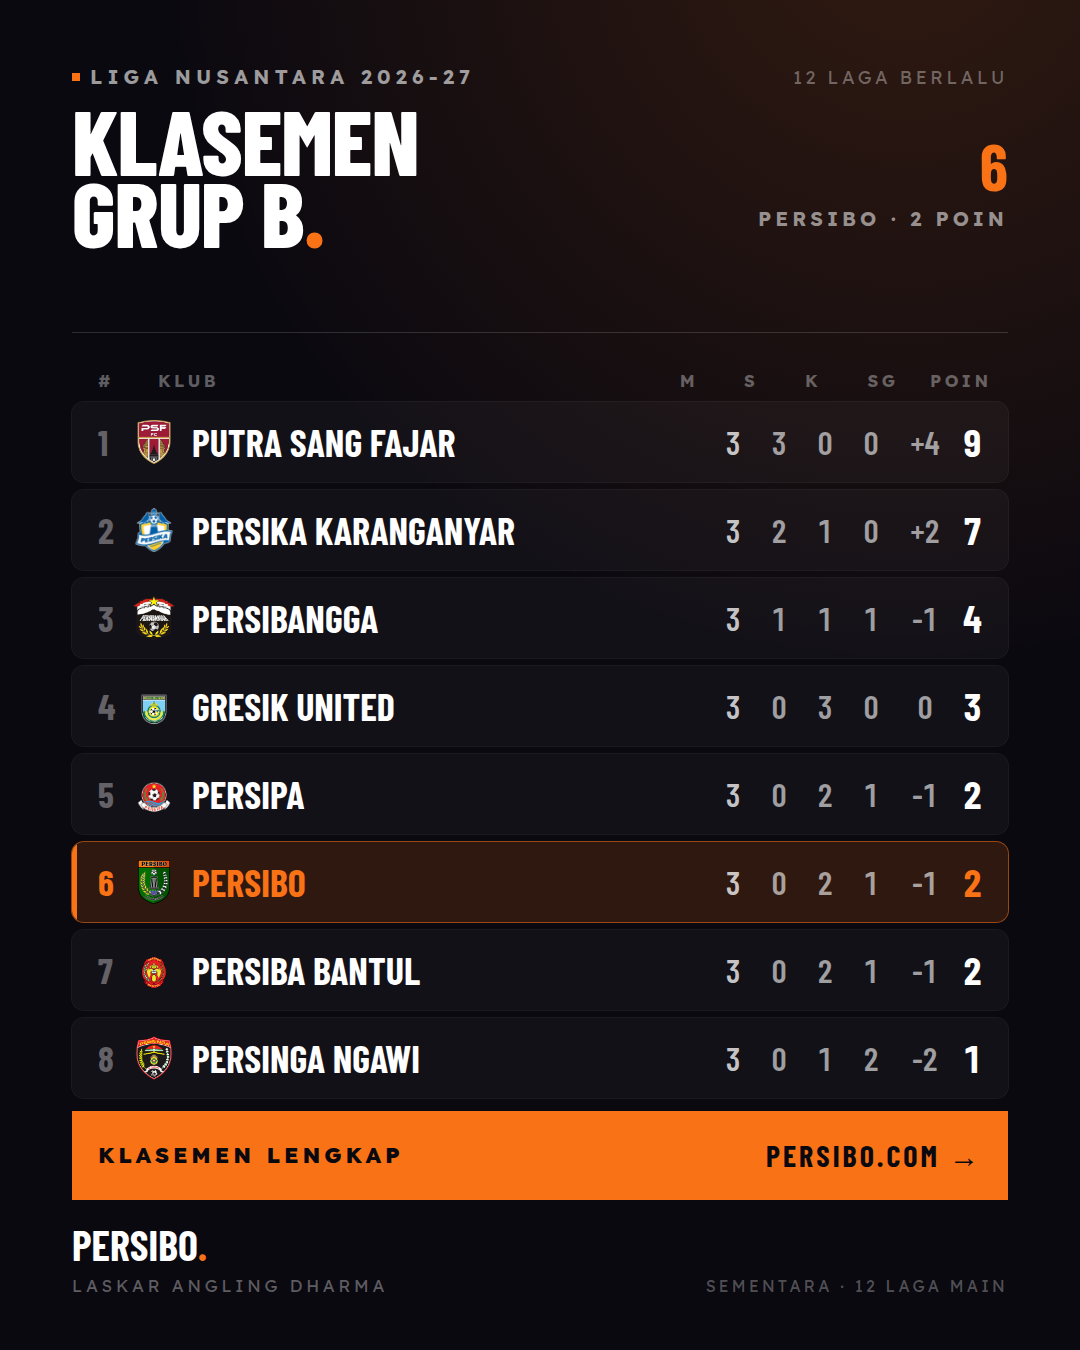
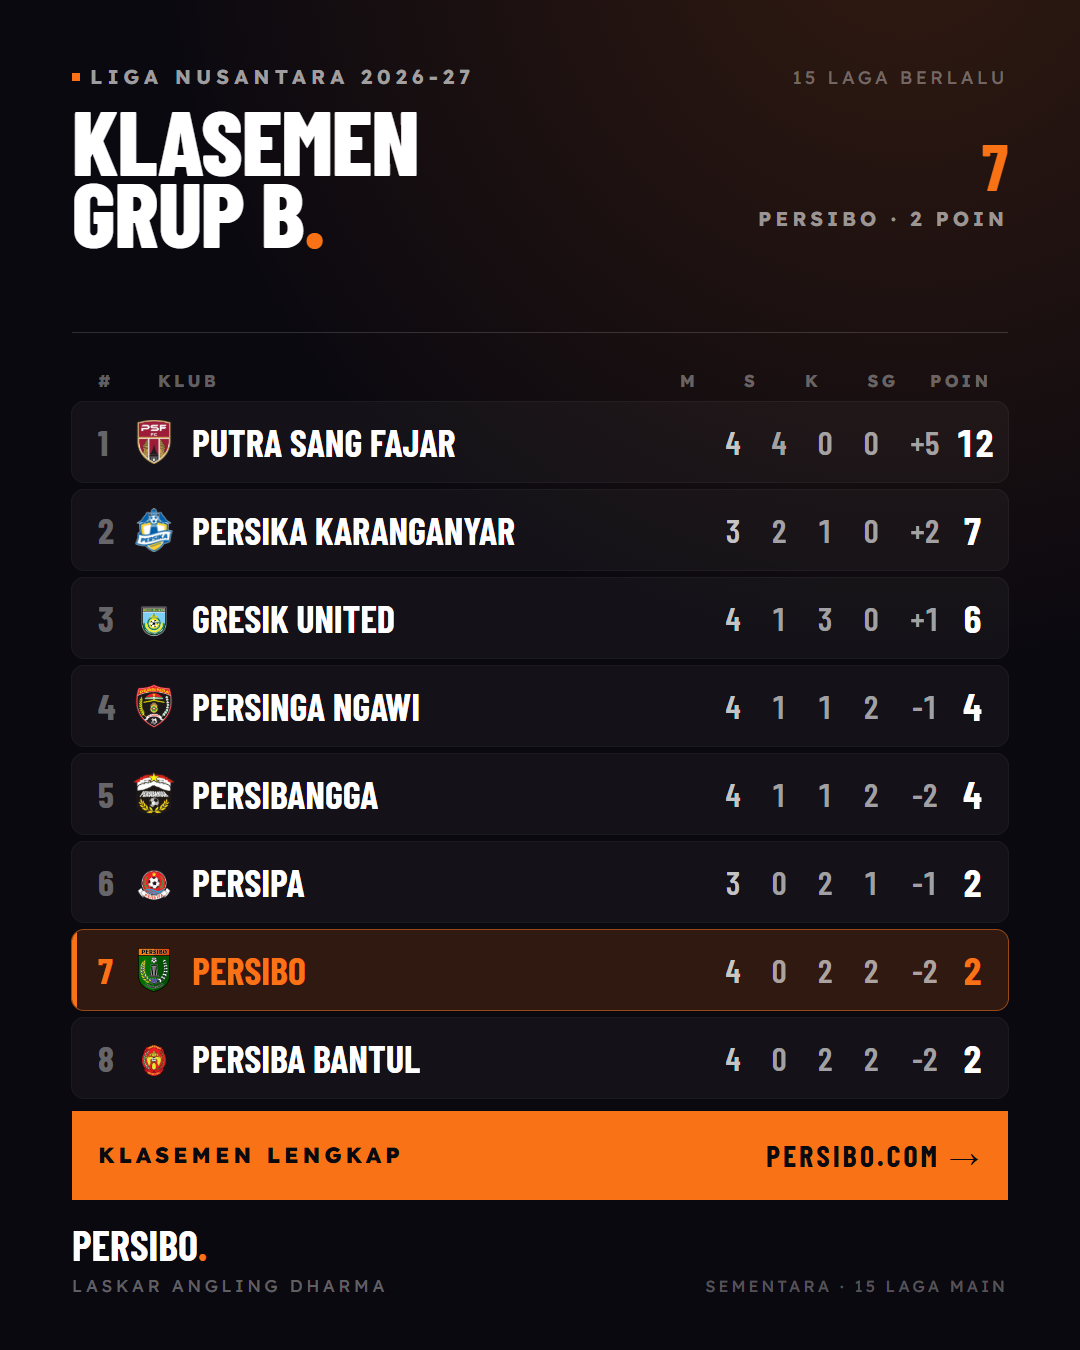
data: klasemen matchday 4 dan poster Grup B
- Standings 2026-27 di-scrape ulang dari /table/index: Grup B PSF 12, Persika 7, Gresik 6, Persinga 4, Persibangga 4, Persipa 2, Persibo 2 (7), Persiba 2; Grup A dan C ikut maju.
- Fixtures Persibo bertambah sampai 21 Januari; kickoff laga selesai dipertahankan. teams.json membetulkan ileague_url ber-underscore ganda.
- Poster klasemen-grup-b dirender ulang: 15 laga berlalu, Persibo 2 poin di peringkat 7.

diff --git a/CHANGELOG.md b/CHANGELOG.md
@@ -7,7 +7,8 @@ dan proyek ini mengikuti [Semantic Versioning](https://semver.org/lang/id/).
 
 ## [Unreleased]
 ### Added
-- Match report resmi Putra Sang Fajar–Persibo (26 November) masuk `matchDetails.json`: skor 1-0, gol KOMAR menit 50' (live mencatat 49'), kartu kuning ATHALLAH 36' / JOHAN YOGA 70' / ANGGER 76', sepuluh pergantian (dua pergantian HT PSF dicatat 46' agar urut sebelum gol), 733 penonton. Statistik dari AiScore: serangan 78-93, serangan berbahaya 46-83, penguasaan bola 45-55, tembakan ke gawang 3-2, meleset 4-3. Fixture 26 November ditandai COMPLETED 1:0 supaya beranda memuat hasil terakhir; poster `hasil-putra-sang-fajar.png` dan caption nomor 18 ikut memakai menit resmi 50'. Klasemen Grup B belum disegarkan karena perlu tabel penuh dari iLeague.
+- Klasemen 2026-27 disegarkan lewat `.scratch/scrape_ileague.py` setelah matchday 4. Grup B: Putra Sang Fajar 12 poin (4 laga), Persika 7, Gresik United 6, Persinga dan Persibangga 4, Persipa 2, Persibo 2 (peringkat 7, selisih -2), Persiba Bantul 2. Grup A dan C ikut maju ke matchday 4 sebagian. Fixtures Persibo bertambah sampai 21 Januari; waktu kick-off laga selesai dipertahankan dari file lama, dan `teams.json` sekalian membetulkan `ileague_url` ber-underscore ganda. Poster `klasemen-grup-b.png` dirender ulang: 15 laga berlalu, Persibo 2 poin di peringkat 7.
+- Match report resmi Putra Sang Fajar–Persibo (26 November) masuk `matchDetails.json`: skor 1-0, gol KOMAR menit 50' (live mencatat 49'), kartu kuning ATHALLAH 36' / JOHAN YOGA 70' / ANGGER 76', sepuluh pergantian (dua pergantian HT PSF dicatat 46' agar urut sebelum gol), 733 penonton. Statistik dari AiScore: serangan 78-93, serangan berbahaya 46-83, penguasaan bola 45-55, tembakan ke gawang 3-2, meleset 4-3. Fixture 26 November ditandai COMPLETED 1:0 supaya beranda memuat hasil terakhir; poster `hasil-putra-sang-fajar.png` dan caption nomor 18 ikut memakai menit resmi 50'.
 - Lineup laga 26 November masuk `matchDetails.json` dari e-start list panitia: XI dan cadangan PUTRA SANG FAJAR FC serta PERSIBO Bojonegoro, pelatih, dan perangkat laga (wasit RISMAN, S.PD). Skor dibiarkan kosong sampai laga selesai; scrape iLeague berikutnya akan menimpanya. Persibo turun 4-2-3-1: Rifaldi, Aaron Y, dan Jojo masuk XI, Rangga, J. Latuconsina, dan Sehabudin ke bangku. Poster `lineup-putra-sang-fajar.png` dan caption nomor 17 ikut dibuat. Pitch poster kini bisa digambar per baris formasi lewat field `lines` — empat grup posisi lama selalu jadi 3-3-4-1 — sementara job tanpa `lines` tetap memakai grup posisi dan poster 4-3-3 sebelumnya tidak berubah.
 - Klasemen 2026-27 disegarkan dari `/table/index` iLeague: Grup A dan C naik ke matchday 3 (sebelumnya baru 2 laga), Grup B form Persika jadi W D W dan Persinga D L L. Data lama Grup A/C bertanggal 18 November. Sumber tunggal ini memuat gol, selisih, form, dan poin sekaligus, jadi `scrape_standings` di `.scratch/scrape_ileague.py` dipindah ke sana: `/embed/gotowilayah` kini selalu membalas Grup A walau `wilayah` diganti, sehingga grup B dan C tidak pernah terambil.
 - Poster prediksi Putra Sang Fajar vs Persibo (26 November, matchday 4) dalam tiga slide: prediksi skor 1-1, perbandingan tiga laga (poin 2 vs 9, kemenangan 0 vs 3, gol 2 vs 5, kartu kuning 6 vs 8), dan kunci pertandingan. Isi deck kini tinggal data: `src/data/prediksiDecks.ts` menyimpan dua deck (`gresik`, `psf`), `src/pages/sosmed/prediksi/[slide].astro` merender keduanya, dan `prediksi-psf-1..3` masuk `social/posts.json`. Deck dipisah dari halaman karena `getStaticPaths` dievaluasi di luar scope frontmatter Astro. Caption carousel ada di `social/captions.md` nomor 16, tanpa angka odds karena situs memakai AdSense.
